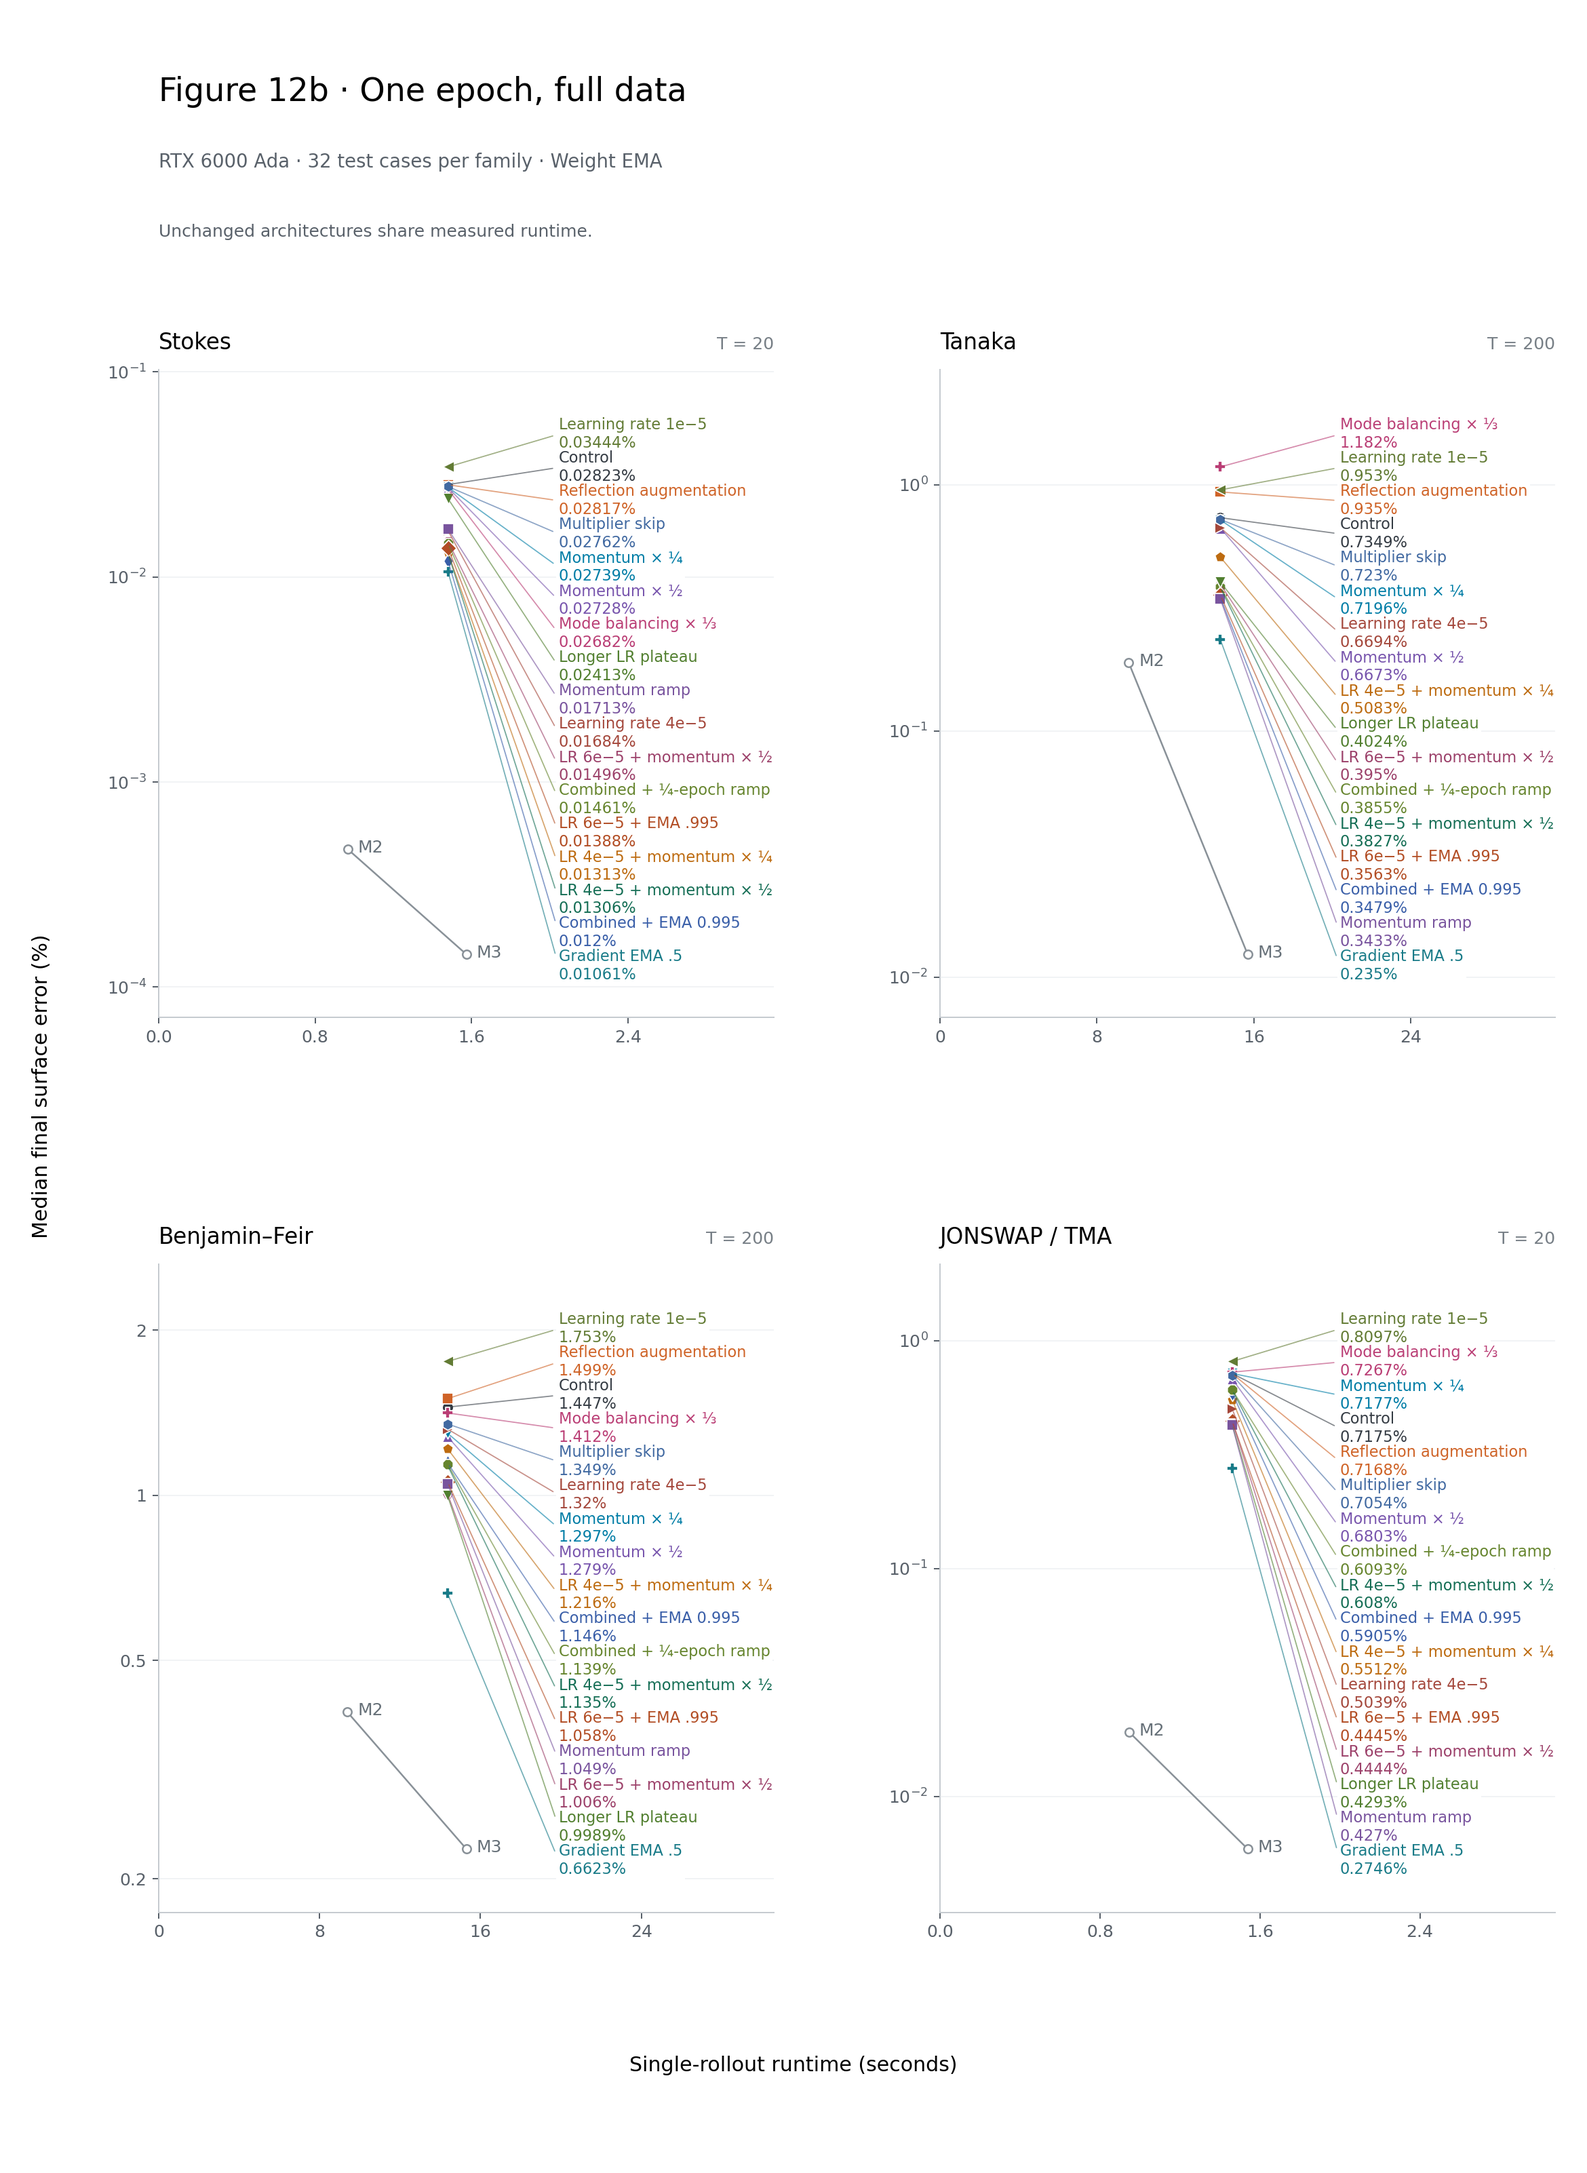
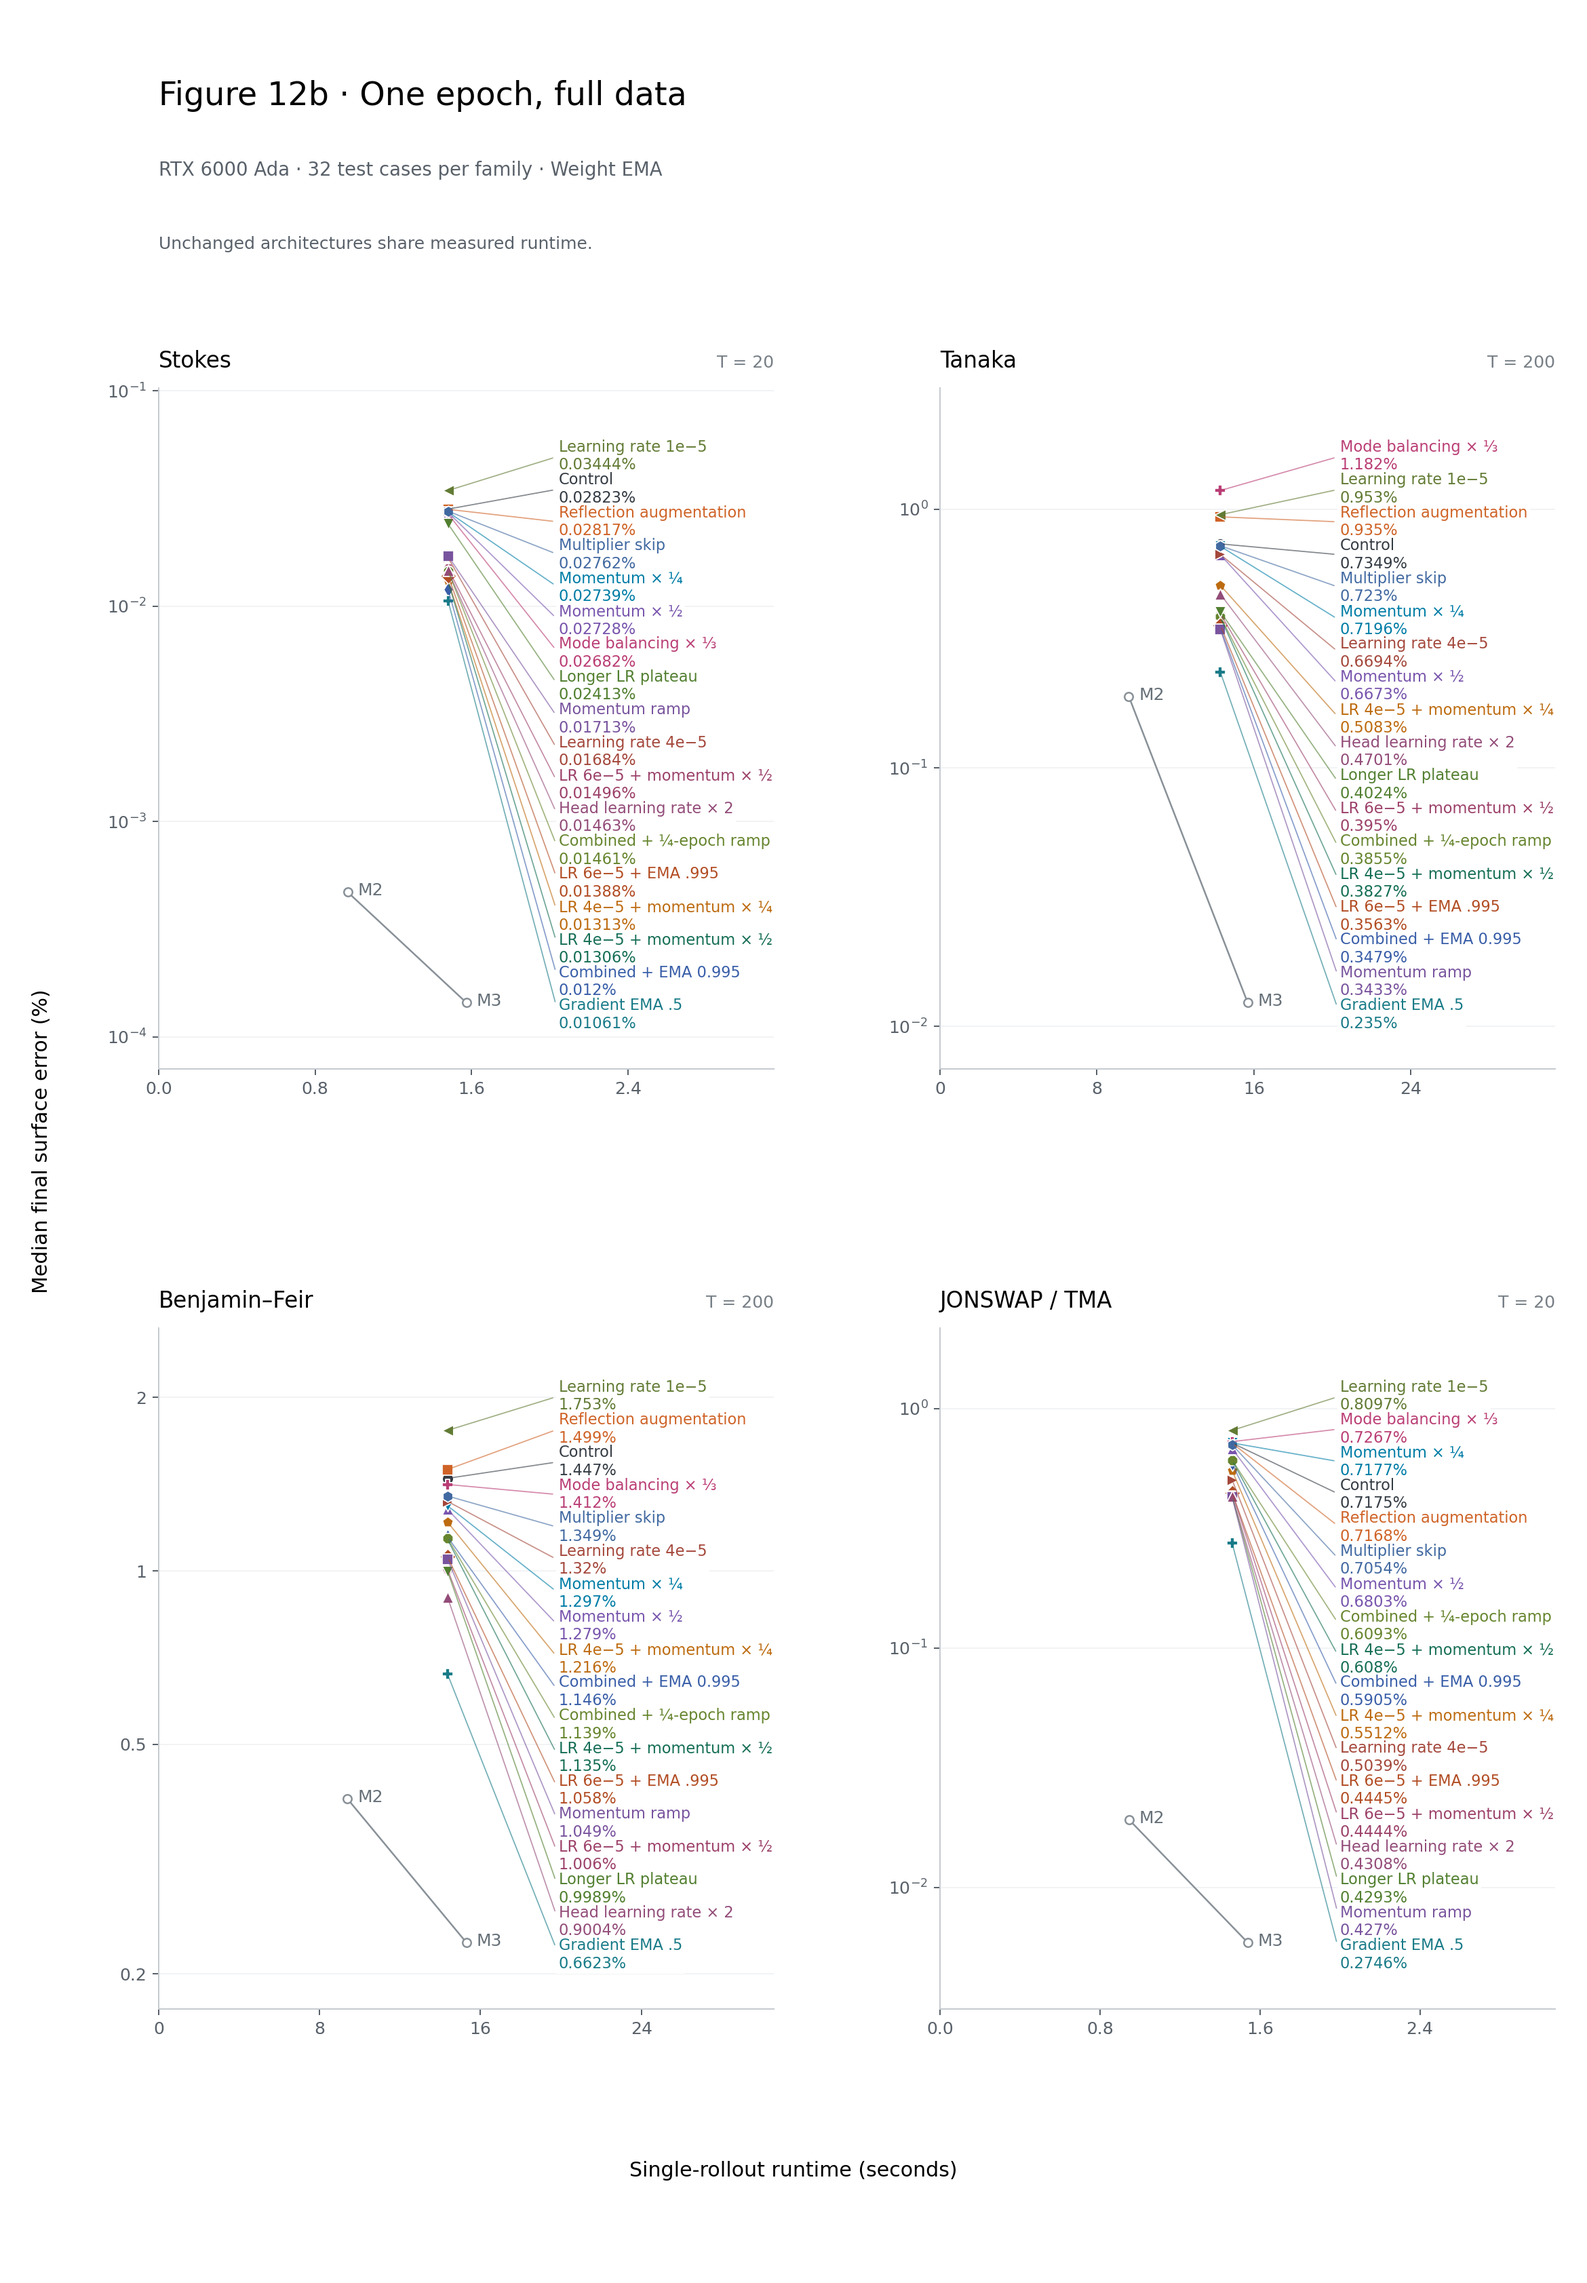
Record head learning rate tradeoff and start retained-band screen

diff --git a/experiments/experiments-2026-10-10.md b/experiments/experiments-2026-10-10.md
@@ -9,8 +9,8 @@
 | 2026-10-10 | 02:08 | Retained-band data loss, preparation and baseline diagnostic | Stored targets are effectively limited to mode128, while the analytic M1 output has higher modes; fitting this difference may compete with retained-band accuracy. | Added --data_k_max, defaultNone, masking data numerator and all associated normalizers while retaining full L2/family diagnostics and all physical losses. CPU diagnostic on32 TRAIN rows/family, seed20261010: mean fraction of FP64 M1 squared error above128 is S.00515%, T.02945%, BF.0000184%, J16.73%; target out-of-band relative RMS maximum about2.5e-8. These are baseline measurements, not trained-model predictions or fractions of the unsquared data loss. | Twelve focused CPU tests cover all four normalizers, physical-wavenumber cutoff, exact-fit and excluded-band gradients, original/generated loss wiring, unchanged auxiliary losses and full metrics. Independent review, Ruff, Pyright and scoped diff pass. Both rollout paths use unfiltered q inside nonlinear products before RHS filtering, so high-mode errors are not assumed dynamically irrelevant. Optional CPU checkpoint restore stalled and was terminated; the NumPy diagnostic completed. | CPU-only while current training/evaluation continues; no new GPU experiment. | READY for an isolated cutoff128 screen. No solver/prediction filtering or default objective change; judge full rollouts before accepting. |
 | 2026-10-10 | 02:22 | Log-conditioned multiplier inputs, CPU diagnostic and preparation | Raw k and k*tanh(kh) can saturate the multiplier's tanh hidden layer at initialization, limiting trainable frequency/depth variation before the model learns. This is distinct from the previously screened additive symbol skip. | Fresh seed0 actual40296-parameter model, same hidden kernels,17 log-spaced depths.02-to5: fraction of hidden derivatives below.01 raw-to-log is64.30-to13.72% at modes5–16,91.48-to29.88% at17–64,96.41-to39.81% at65–128,99.16-to49.14% at129–512. Implemented opt-in --cs_log_multiplier_inputs with [log1p(k),log(h),tanh(kh),log1p(k*tanh(kh))], existing depth clipping and unchanged symbol skip. No new parameters or FFTs; depth-specific multipliers remain cached for inference. | Same parameter trees and zero-head initial full prediction verified. Exact formula/default behavior, finite k0/shallow/deep/clipped gradients, eight packed/native ordinary/nested configurations with all parameter/input/depth gradients, checkpoint loading and four nonzero-head cached-Fourier CPU parity cases pass. Ruff/Pyright/scoped diff and independent review pass. This measures initialization conditioning, not trained saturation or guaranteed accuracy; outputs remain bounded as functions of k at fixed weights. | CPU-only during the live GPU0 momentum-ramp run; no checkpoint restore, training, GPU evaluation or new files. Seven existing source/test files changed. | READY for a separate fresh one-epoch screen, not combined with head-LR or loss-band changes. Default remains off; active launcher unchanged. |
 | 2026-10-10 | 02:58 | Optimized EMA rollout evaluator parity gate | Existing cached Fourier inference could shorten each128-case screen if it preserves the current evaluator's trajectories and failure classifications. | Ran /tmp/dno_optimized_eval_parity.py on GPU0 against the saved LR6/half-momentum/weightEMA.995 parent, with a15minute timeout and unchanged strict tolerance min(1e-5,1e-7+.01*old reference error) at every saved time/case. Stokes failed first: max relative eta difference8.709e-6, max absolute8.647e-8, tolerance ratio25.90; terminal median.0138802-to.0136175%. Remaining families and matched warm timing were not run after this failure. | Compared identical saved initial states, depths/times and both physical/spectral predictors. All Stokes finite masks and threshold classifications matched before the field check failed. Do not loosen the gate or silently replace screening results. Diagnostic log outputs/optimized_eval_parity_20261010.log. | Isolated GPU0 check02:57–02:58, after previous queue exited. Stokes setup/compile4.774s and execution+transfers4.452s; no matched speedup established. No GPU1/cloud activity. | REJECT evaluator replacement for now; generic EMA rollout evaluation unchanged. |
-| 2026-10-10 | 02:58 | Spatial-head learning rate x2, full-data screen | The zero-initialized spatial heads initially block trunk/filter gradients; larger head updates might accelerate the short scratch run without raising every parameter's learning rate. | Started c27_phase1_lr6_momentum_half_ema995_head2_full_20261010. Only --surface_head_lr_multiplier2 differs from the fixed LR6/half-momentum/weightEMA.995 parent; gradientEMA remains.9. Scales5120 phi_proj/kernel updates after AdamW; other moment estimates/updates unchanged. | Existing optimizer/EMA regression passes, launcher syntax and plot Ruff checks pass. Fresh seed0, full train/validation, exactly1epoch followed by128 weight-EMA-only rollouts. No pretrained initialization or raw evaluation. Actual saved configuration confirms init_checkpoint=null, epochs=stop1, fractions1, LR6e-5, gradientEMA.9, weightEMA.995, head2, other new flags off; live finite training output verified. | Started02:58 on GPU0 with40%memory cap, tmux dno-input-head-band-gpu0-20261010. Queue log outputs/phase1_input_head_band_queue_20261010.log; expected about00:22, not yet measured. GPU1 untouched. | RUNNING; fixed parent retained to isolate the head change despite promising gradientEMA.5 result. |
-| 2026-10-10 | 02:58 | Retained-band data loss, full-data screen | Analytic M1 has out-of-band content absent from labels, particularly for JONSWAP; restricting the data objective might free capacity for retained modes. | Queued c27_phase1_lr6_momentum_half_ema995_band128_full_20261010. Only --data_k_max128 differs from the fixed parent; numerator and its normalization use the same mask. Full prediction, ordinary full L2 diagnostics, and all auxiliary/teacher physical losses stay unchanged. | Twelve focused CPU loss tests and independent review passed during preparation. Fresh full-data1epoch, both EMAs, seed0 and same128-case EMA-only evaluation; no claim that high modes cannot influence low-mode nonlinear dynamics. | Queued02:58 second onGPU0 after head2 completes. Same tmux/log, no GPU1/cloud jobs. No measured start/completion yet. | QUEUED; compare full rollouts and tails before accepting. |
+| 2026-10-10 | 02:58 | Spatial-head learning rate x2, full-data screen | The zero-initialized spatial heads initially block trunk/filter gradients; larger head updates might accelerate the short scratch run without raising every parameter's learning rate. | Completed c27_phase1_lr6_momentum_half_ema995_head2_full_20261010; only --surface_head_lr_multiplier2 differs from fixed parent (gradientEMA.9 retained). EMA median eta errors% [S,T,BF,J]=[.01462631,.47010143,.90041382,.43082496], p95=[.27438840,3.20510421,1.91069837,3.48881820]. Paired wins18/12/18/8 (56/128); family geometric ratios.9713/1.1246/.9097/1.0195, pooled1.00326. | Fresh model/optimizer, full splits, seed0,1epoch and128 EMA-only rollouts; saved config verified. All128finite/reference-valid with matching IDs and no terminal errors above25%. Worst Tanaka3687197 improves24.4747-to7.78005%, while Tanaka median worsens32%. Optimizer regression confirms only5120 spatial-head updates are scaled afterAdamW. Figure12b automatically refreshed. | GPU0 train/evaluation02:58–03:21; epoch loop12min39s. Same40%cap and queue; GPU1/cloud untouched. Unchanged inference graph, no new latency measurement. | COMPLETE, MIXED; no aggregate accuracy gain, but strong Tanaka-tail improvement. Retain for one isolated combination with gradientEMA.5 after current queue/seed checks, not a default replacement. |
+| 2026-10-10 | 02:58 | Retained-band data loss, full-data screen | Analytic M1 has out-of-band content absent from labels, particularly for JONSWAP; restricting the data objective might free capacity for retained modes. | Started c27_phase1_lr6_momentum_half_ema995_band128_full_20261010. Only --data_k_max128 differs from fixed parent; numerator and its normalization use the same mask. Full prediction, ordinary full L2 diagnostics, and all auxiliary/teacher physical losses remain unchanged. | Twelve focused CPU loss tests and independent review passed. Actual config verified03:22: fresh init, full splits, epochs=stop1, seed0, LR6e-5, gradientEMA.9/weightEMA.995, head1, loginputs/hold/momentumramp off. No claim that high modes cannot influence low-mode nonlinear dynamics. | Queued02:58; started03:21 second onGPU0 after head2 completion. Live trainerPID1009412, finite training output andGPU0allocation independently verified03:22. No GPU1/cloud jobs. | RUNNING; exactly one epoch then128 EMA-only rollouts. Judge full trajectory errors and tails before accepting. |
 | 2026-10-10 | 02:58 | Log-conditioned multiplier inputs, full-data screen | Raw wavenumber coordinates heavily saturate the multiplier tanh layer at initialization; logarithmic coordinates may improve learnability without adding inference operations or parameters. | Queued c27_phase1_lr6_momentum_half_ema995_log_inputs_full_20261010. Only --cs_log_multiplier_inputs differs from fixed parent. Compress k and k*tanh(kh) with log1p and use logh; retain tanh(kh), existing depth clip and all other architecture/loss/optimizer choices. | Formula/gradient, packed/native, checkpoint loading and cached CPU inference parity tests passed. Same zero-head initialization output and parameter count. Fresh full-data1epoch, both EMAs and128 EMA-only rollouts; initialization conditioning evidence is not a prediction of performance. | Queued02:58 third onGPU0 after head2/band128. Same tmux/log; no GPU1/cloud use or measured completion yet. | QUEUED; separate from the prior symbol-skip trial and from new head/band options. |
 | 2026-10-10 | 03:07 | GradientEMA.5 saved-rollout mechanism audit | The broad rollout gain may reflect better local DNO prediction, reduced coherent phase drift, or both; diagnostics on saved states can distinguish these without new training. | Compared128 paired EMA trajectories against parent. Continuous translation-aligned median eta errors% [S,T]=[.002990,.115935] to[.002132,.084902]. Isolated Tanaka11cases: translation component.426862-to.221794%, aligned shape.054504-to.038379%; paired geometric ratios.402/.817. Fourier phase medians% [S,T,BF,J]=[.013586,.315878,.779274,.309792] to[.010576,.185972,.545991,.198667]; amplitude medians=[.002967,.099513,.435302,.279541] to[.002094,.080708,.273183,.188268]. CPU FP64 M6 on identical initial inputs: retained-mode DNO wins108/128, paired ratio.77338. Own-final states:107/128wins, ratio.79232; retained DNO medians% [.0010543,.016800,.0044047,.031784] to[.0010532,.012413,.0032637,.025100]. | Same ordered IDs/reference surfaces, allfinite. Existing continuous alignment and exact weighted rFFT phase/amplitude squared-error decomposition used; median phase shares remain96/94/79/67% approximately. Multi-wave global alignment is not a unique wave speed. Own-final states differ across models; initial inputs identical. CPU M6 pad8/true depth matches saved GPU initial truth within1.63e-12 relative. Stokes aligned p95 worsens.02379-to.03370%; Tanaka raw p95 worsens6.807-to8.673%. All251saved frames x128cases retain positive fluid thickness; minimum relative thickness .83843(parent)/.83802(new), no crossings. Endpoint checks do not prove temporal phase coherence or optimizer causality. | CPU-only concurrent with head2 training; M6 endpoint computation14.7seconds. No model loads, files, new GPU jobs or cloud use. | Broad improvement includes phase, shape and retained-band operator accuracy. Proceed with paired fresh-seed confirmation; retain tail checks. |
 | 2026-10-10 | 03:07 | Conservative cached evaluator and seeded confirmation, preparation | Strict Fourier-evaluator parity failed; caching only fixed-depth multipliers may reduce evaluation cost without changing baseline/output rounding. Separately, a second seed tests whether gradientEMA.5 gains persist. | Source audit: Fourier path combines G0/G1/residual in complex128, bypassing native FP32 baseline/add/rescale rounding, with different branch summation/FFT order. This plausibly explains drift but is not causal isolation. Prepared --variant cached in the temporary parity script: existing cached physical predictor plus generic integrator and no boundary patches. Same all128 strict gate and matched warm Stokes timing retained. Prepared launcher suffixes _seed1 and _grad05_seed1 for parent/candidate after active queue exits. | Cached interception replaces only DepthAwareMultiplier; RMS/context, input/output normalization, FP32 rounds and grouping remain native. CPU syntax/Ruff/Pyright pass; no GPU parity yet. Seed audit: initialization/shuffle/HD/validation explicitly seeded, FIFO order preserved, RMS fit fixed seed0. Teacher rows match withinseed but endpoints depend on model. CUDA bitwise repeatability not established. Active launcher unchanged while queue runs. | CPU preparation during head2. No new GPU job, training run, production file edit or cloud use. | READY; test cached evaluator only in a free-GPU gap and reject on strict mismatch. Compare seed1 candidate against seed1 control, not against seed0. |
